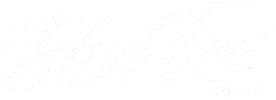
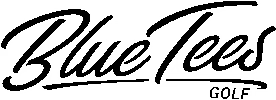
new section

Changed region(s): [[0.0, 0.0, 1.0, 0.99]]

diff --git a/app/components/Brands.tsx b/app/components/Brands.tsx
@@ -1,0 +1,61 @@
+"use client";
+import React from "react";
+import Image from "next/image";
+import { Swiper, SwiperSlide } from "swiper/react";
+import { Autoplay, Pagination, Navigation } from "swiper/modules";
+
+// Swiper CSS
+import "swiper/css";
+import "swiper/css/pagination";
+import "swiper/css/navigation";
+
+const Brands = () => {
+  const logos = Array.from({ length: 9 }, (_, i) => `/assets/brand-${i + 1}.webp`);
+
+  return (
+    <section className="py-16">
+      <div className="container mx-auto px-4 text-center">
+        <h2 className="text-3xl font-bold text-gray-900 mb-4">
+          Trusted by Leading Brands
+        </h2>
+        <p className="text-gray-700 mb-12 max-w-2xl mx-auto">
+          We proudly partner with top fashion labels and retailers worldwide, delivering high-quality garments, reliable sourcing, and scalable production solutions.
+        </p>
+
+        <Swiper
+          modules={[Autoplay, Pagination, Navigation]}
+          spaceBetween={10} 
+          slidesPerView={2}
+          loop={true}
+          autoplay={{ delay: 2500, disableOnInteraction: false }}
+          pagination={{ clickable: true }}
+          navigation={true}
+          breakpoints={{
+            640: { slidesPerView: 3 },
+            768: { slidesPerView: 4 },
+            1024: { slidesPerView: 5 },
+            1280: { slidesPerView: 6 },
+          }}
+        >
+          {logos.map((logo, index) => (
+            <SwiperSlide key={index} className="flex justify-center items-center">
+              <div className="w-24 h-24 flex items-center justify-center hover:scale-110 transition-transform duration-300">
+                <Image
+                  src={logo}
+                  alt={`Brand ${index + 1}`}
+                  width={96}
+                  height={96}
+                  style={{ width: "auto", height: "auto" }} 
+                  className="object-contain"
+                  priority
+                />
+              </div>
+            </SwiperSlide>
+          ))}
+        </Swiper>
+      </div>
+    </section>
+  );
+};
+
+export default Brands;

diff --git a/app/page.tsx b/app/page.tsx
@@ -1,3 +1,4 @@
+import Brands from "./components/Brands";
 import Hero from "./components/Hero";
 import Navbar from "./components/Navbar";
 import Solutions from "./components/Solutions";
@@ -8,6 +9,7 @@ export default function Home() {
       <Navbar/>
       <Hero/>
       <Solutions/>
+      <Brands/>
     </div>
   );
 }
